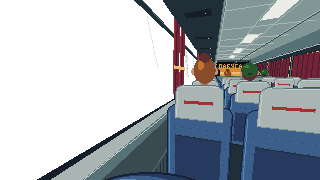
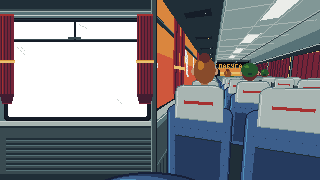
Пролог: боковое окно автобуса без дороги — поля, опушка, Кама, смазанные кусты у обочины
Окно смотрит вбок: в стекле небо, дальний берег с заводами, Кама, наш берег с полями и опушкой и кусты
с травой у самой обочины, смазанные скоростью; всё едет строго справа налево. Окно ровное — рама,
уплотнитель, форточка, шторки, подоконник и стенка с отопителем, без диагоналей. Столбы и асфальт убраны,
тени на спинках теперь от кустов. Качка только по вертикали, под сдвинутым кадром — тот же кадр.

diff --git a/src/game/cutscene/render.ts b/src/game/cutscene/render.ts
@@ -3,7 +3,7 @@
 
 import { MAP } from '../map.gen'
 import { BUS, BUS_IN, BUS_POV, DIR, H, PHONE, SHEETS, SPOTS, type Sheet } from './art'
-import { dither, lut, recolor, rgb } from './mood'
+import { dither, recolor, rgb } from './mood'
 import { glide, sample, swiping, travelled, walkFrame } from './timeline'
 import type { Actor, Mood, SetId, Shot } from './types'
 
@@ -22,8 +22,6 @@ interface Layer {
   sky?: boolean
   /** после слоя — туман такой плотности (только утром) */
   fog?: number
-  /** не картинка, а заливка цветом палитры от dy + H до низа кадра (низ окна под лентами пейзажа) */
-  fill?: number
   /** закатные пятна в салоне: их пересекают тени столбов за окном */
   sun?: boolean
 }
@@ -54,13 +52,15 @@ const town = (name: 'street' | 'oez'): Layer[] => [
 
 export const SETS: Record<Exclude<SetId, 'phone' | 'map' | 'black'> | 'pov', SetDef> = {
   road: { w: Infinity, back: outside() },
-  /** салон от первого лица: за телефоном в автобусе. Ближе всего за стеклом — столбы у обочины, быстрее трассы */
+  /** салон от первого лица: за телефоном в автобусе. Окно боковое: дальше — медленнее, кусты у обочины — быстрее всех */
   pov: {
     w: BUS_POV.w,
     back: [
-      { src: '', par: 0, fill: BUS_POV.ground, dy: BUS_POV.view },
-      ...outside(BUS_POV.view),
-      { src: BUS_POV.pass, par: BUS_POV.par, tile: true, drive: true, dy: BUS_POV.view },
+      { src: 'sky', par: 0, sky: true, dy: BUS_POV.view },
+      { src: 'road_far.png', par: 0.12, tile: true, drive: true, dy: BUS_POV.view },
+      { src: 'road_river.png', par: 0.3, tile: true, drive: true, dy: BUS_POV.view },
+      { src: BUS_POV.field, par: BUS_POV.fieldPar, tile: true, drive: true },
+      { src: BUS_POV.near, par: BUS_POV.nearPar, tile: true, drive: true },
       { src: BUS_POV.src, par: 1 },
       { src: BUS_POV.sun, par: 1, sun: true },
     ],
@@ -81,7 +81,7 @@ export function imagesOf(shot: Shot): string[] {
   if (set === 'map') out.push('/assets/map/elabuga.png')
   else if (set !== 'black') {
     const def = SETS[set]
-    for (const l of [...def.back, ...(def.front ?? [])]) if (l.fill === undefined) out.push(l.sky ? `${DIR}sky_${mood}.png` : DIR + l.src)
+    for (const l of [...def.back, ...(def.front ?? [])]) out.push(l.sky ? `${DIR}sky_${mood}.png` : DIR + l.src)
     if (set === 'bus') out.push(DIR + BUS_IN.sit.src)
   }
   if (shot.set === 'phone') out.push(DIR + PHONE.src)
@@ -176,7 +176,8 @@ export class Painter {
       const w = SETS[behind].w
       const want = behind === 'pov' ? w / 2 : sample(shot.cam, t, w / 2)
       const cam = Math.max(vw / 2, Math.min(w - vw / 2, want))
-      const sway = behind === 'pov' ? [Math.round(Math.sin(anim * 1.1)), bumpAt(anim)] : [0, 0]
+      // качка только вверх-вниз на точку; под сдвинутым кадром — тот же кадр без сдвига, пустого края не бывает
+      const sway = behind === 'pov' ? [0, bumpAt(anim)] : [0, 0]
       const world: Shot = { ...shot, set: behind === 'pov' ? 'bus' : behind, actors: shot.actors ?? [] }
       this.dim = behind !== 'pov'
       // сдвинутый кадр оголил бы край — под ним тот же кадр без сдвига
@@ -236,13 +237,8 @@ export class Painter {
     const layer = (l: Layer) => {
       if (l.lights && mood === 'day') return
       const dy = l.dy ?? 0
-      if (l.fill !== undefined) {
-        ctx.fillStyle = rgb(lut(mood, this.dim)[l.fill])
-        ctx.fillRect(0, H + dy, vw, -dy)
-        return
-      }
       if (l.sun) {
-        if (mood === 'dusk' || mood === 'day') this.sunlight(DIR + l.src, mood, run * BUS_POV.par, left)
+        if (mood === 'dusk' || mood === 'day') this.sunlight(DIR + l.src, mood, run, left)
         return
       }
       if (l.sky) {
@@ -270,24 +266,29 @@ export class Painter {
   }
 
   /**
-   * Закатные пятна на спинках: слой рисуется полосами по 3 строки, а тени столбов у обочины (те же, что за окном,
-   * лента pov_pass) вырезают из них косые просветы — тень пробегает по салону, когда столб проносится мимо окна.
+   * Закатные пятна на спинках: слой рисуется полосами по 3 строки, а тени кустов у обочины (те же, что за окном,
+   * лента pov_near) вырезают из них косые просветы — тень пробегает по салону, когда куст проносится мимо окна.
    */
   private sunlight(src: string, mood: Mood, run: number, left: number) {
     const im = this.img(src, mood)
     if (!im) return
     const { ctx, vw } = this
-    const off = left * BUS_POV.par + run
-    const shades: number[] = []
-    for (const p of POLES) for (let k = -1; k <= 1; k++) shades.push(p + k * 640 - off)
+    const off = (left + run) * BUS_POV.nearPar
+    const W = BUS_POV.nearW
+    // тень куста: [левый край, ширина] на ленте у обочины, ленту повторяем, чтобы тени шли без конца
+    const shades: [number, number][] = []
+    for (const [cx, w] of BUS_POV.bushes) for (let k = -1; k <= 1; k++) shades.push([cx - w + k * W - (off % W), w * 2])
     for (let y = 0; y < H; y += 3) {
-      // тень падает наискось и отстаёт от столба: чем ниже, тем правее
-      const cuts = shades.map((x) => Math.round(x * 0.9 + 150 + y * 0.55)).filter((x) => x > -12 && x < vw).sort((a, b) => a - b)
+      // тень падает наискось и отстаёт от куста: чем ниже, тем правее
+      const cuts = shades
+        .map(([x, w]) => [Math.round(x * 0.5 + 150 + y * 0.55), Math.round(w * 0.5)] as const)
+        .filter(([x, w]) => x + w > 0 && x < vw)
+        .sort((a, b) => a[0] - b[0])
       let x0 = 0
-      for (const c of [...cuts, vw + 20]) {
+      for (const [c, w] of [...cuts, [vw + 20, 0] as const]) {
         const x1 = Math.min(vw, c)
         if (x1 > x0) ctx.drawImage(im, x0 + left, y, x1 - x0, 3, x0, y, x1 - x0, 3)
-        x0 = Math.max(x0, c + 9)
+        x0 = Math.max(x0, c + w)
       }
     }
   }
@@ -410,9 +411,6 @@ const bumpAt = (t: number) => (Math.sin(t * 7.3) > 0.85 ? 1 : 0)
 
 /** Телефон поднимается к глазам в начале плана, секунды. */
 const PHONE_RISE = 0.45
-
-/** Столбы на ленте pov_pass.png (tools/art/cutscene_pov.py, build_pass): x в ленте 640 точек. */
-const POLES = [40, 250, 470]
 
 /** Стая: x, y, скорость, фаза взмаха. */
 const FLOCK = [

diff --git a/src/game/cutscene/people.gen.ts b/src/game/cutscene/people.gen.ts
@@ -3,4 +3,4 @@
 // (ставим её на линию земли), cycle — сколько точек тело проходит за 8 кадров ходьбы (ноги не скользят).
 // Прямоугольники — [x0, y0, x1, y1] включительно: окна салона (стёкла прозрачные), экран телефона.
 
-export const PEOPLE = {"walk": {"src": "/assets/cutscene/newbie_walk.png", "w": 32, "h": 48, "frames": 11, "walk": [0, 1, 2, 3, 4, 5, 6, 7], "stand": 8, "ay": 46, "cycle": 32, "phoneEar": 9, "phoneLook": 10, "ax": 16}, "case": {"src": "/assets/cutscene/newbie_case.png", "w": 48, "h": 48, "frames": 9, "walk": [0, 1, 2, 3, 4, 5, 6, 7], "stand": 8, "ay": 46, "cycle": 32, "ax": 32}, "box": {"src": "/assets/cutscene/newbie_box.png", "w": 32, "h": 48, "frames": 9, "walk": [0, 1, 2, 3, 4, 5, 6, 7], "stand": 8, "ay": 46, "cycle": 32, "ax": 14}, "sit": {"src": "/assets/cutscene/newbie_sit.png", "w": 48, "h": 56, "frames": 4, "phone": 0, "scroll": 1, "window": 2, "doze": 3, "at": [161, 117]}, "busIn": {"src": "/assets/cutscene/bus_in.png", "fg": "/assets/cutscene/bus_fg.png", "w": 320, "h": 180, "windows": [[6, 60, 98, 131], [110, 60, 206, 131], [218, 60, 314, 131]], "floor": 172}, "busPov": {"src": "/assets/cutscene/bus_pov.png", "sun": "/assets/cutscene/bus_pov_sun.png", "pass": "/assets/cutscene/pov_pass.png", "w": 320, "h": 180, "view": -40, "passPar": 2.2, "ground": 7}, "phone": {"src": "/assets/cutscene/phone.png", "w": 160, "h": 180, "frames": 2, "rest": 0, "swipe": 1, "screen": [38, 14, 121, 157]}, "timur": {"src": "/assets/cutscene/timur.png", "w": 32, "h": 48, "frames": 2, "idle": 0, "sip": 1, "ax": 15, "ay": 46, "faces": "left"}} as const
+export const PEOPLE = {"walk": {"src": "/assets/cutscene/newbie_walk.png", "w": 32, "h": 48, "frames": 11, "walk": [0, 1, 2, 3, 4, 5, 6, 7], "stand": 8, "ay": 46, "cycle": 32, "phoneEar": 9, "phoneLook": 10, "ax": 16}, "case": {"src": "/assets/cutscene/newbie_case.png", "w": 48, "h": 48, "frames": 9, "walk": [0, 1, 2, 3, 4, 5, 6, 7], "stand": 8, "ay": 46, "cycle": 32, "ax": 32}, "box": {"src": "/assets/cutscene/newbie_box.png", "w": 32, "h": 48, "frames": 9, "walk": [0, 1, 2, 3, 4, 5, 6, 7], "stand": 8, "ay": 46, "cycle": 32, "ax": 14}, "sit": {"src": "/assets/cutscene/newbie_sit.png", "w": 48, "h": 56, "frames": 4, "phone": 0, "scroll": 1, "window": 2, "doze": 3, "at": [161, 117]}, "busIn": {"src": "/assets/cutscene/bus_in.png", "fg": "/assets/cutscene/bus_fg.png", "w": 320, "h": 180, "windows": [[6, 60, 98, 131], [110, 60, 206, 131], [218, 60, 314, 131]], "floor": 172}, "busPov": {"src": "/assets/cutscene/bus_pov.png", "sun": "/assets/cutscene/bus_pov_sun.png", "field": "/assets/cutscene/pov_field.png", "near": "/assets/cutscene/pov_near.png", "w": 320, "h": 180, "view": -48, "fieldPar": 0.8, "nearPar": 3.2, "bushes": [[90, 30], [420, 18], [700, 36]], "nearW": 960}, "phone": {"src": "/assets/cutscene/phone.png", "w": 160, "h": 180, "frames": 2, "rest": 0, "swipe": 1, "screen": [38, 14, 121, 157]}, "timur": {"src": "/assets/cutscene/timur.png", "w": 32, "h": 48, "frames": 2, "idle": 0, "sip": 1, "ax": 15, "ay": 46, "faces": "left"}} as const

diff --git a/src/game/cutscene/art.ts b/src/game/cutscene/art.ts
@@ -71,18 +71,22 @@ export const BUS_IN = {
 }
 
 /**
- * Салон от первого лица (телефон в руках в автобусе): сидим у левого окна, за стеклом та же трасса, что снаружи.
- * view — сдвиг пейзажа вверх (горизонт на уровне глаз), pass — столбы у обочины, едут быстрее трассы (par),
- * sun — закатные пятна из окон на спинках: их режут тени столбов; ground — чем залить низ окна под пейзажем.
+ * Салон от первого лица (телефон в руках в автобусе): сидим у левого окна, окно смотрит вбок — дороги в нём нет.
+ * В стекле: небо, дальний берег с заводами и Кама (ленты трассы, сдвинутые на view вверх), наш берег с полями и
+ * опушкой (field) и кусты с травой у самой обочины, смазанные скоростью (near). sun — закатные пятна на спинках:
+ * их пересекают тени тех же кустов.
  */
 export const BUS_POV = {
   src: file(P.busPov.src),
   sun: file(P.busPov.sun),
-  pass: file(P.busPov.pass),
-  par: P.busPov.passPar,
+  field: file(P.busPov.field),
+  near: file(P.busPov.near),
+  fieldPar: P.busPov.fieldPar,
+  nearPar: P.busPov.nearPar,
+  bushes: P.busPov.bushes,
+  nearW: P.busPov.nearW,
   w: P.busPov.w,
   view: P.busPov.view,
-  ground: P.busPov.ground,
 }
 
 export const PHONE = {

diff --git a/tools/art/cutscene_pov.py b/tools/art/cutscene_pov.py
@@ -15,9 +15,13 @@ from PIL import Image, ImageDraw
 from room3d import FONT, T, Tex, darker, lighter
 
 BW, BH = 320, 180
-VIEW = -40            # сдвиг пейзажа за окном вверх: горизонт — на уровне глаз
-PASS_PAR = 2.2        # ближние столбы у обочины едут быстрее трассы
-GROUND_FILL = 7       # чем залить низ окна под лентами пейзажа (трава)
+VIEW = -48            # сдвиг дальних лент (небо, берег, Кама) вверх: горизонт — на уровне глаз
+# боковое окно: смотрим перпендикулярно ходу, дороги не видно. Ленты пейзажа и их параллакс (доля скорости автобуса)
+FAR_PAR, RIVER_PAR = 0.12, 0.3   # дальний берег с заводами ОЭЗ и Кама
+FIELD_PAR = 0.8       # поля и опушка на нашем берегу
+NEAR_PAR = 3.2        # кусты и трава у самой обочины — проносятся смазанно
+NEAR_BUSHES = [(90, 30), (420, 18), (700, 36)]   # центр и полуширина кустов на ленте 960
+WIN = (8, 22, 146, 116)                       # стекло ближнего окна в кадре, x0, y0, x1, y1 включительно
 rng = np.random.default_rng(1610)    # свой генератор: остальные листы не меняются
 
 SKIN, SKIN_S, SKIN_D, SKIN_L = 16, 15, 14, 17
@@ -194,7 +198,8 @@ def build_bus_pov():
     s.line((WALL_L + 0.01, -0.84, -1), (WALL_L + 0.01, -0.84, FRONT), 41)
     for z0, z1 in PANES:
         s.quad(wall_l(z0 - 0.04, z1 + 0.04, SILL - 0.03, WTOP + 0.03), 38)           # уплотнитель
-        s.quad(wall_l(z0, z1, SILL, WTOP), T)
+        s.quad(wall_l(z0, z1, SILL, WTOP), 29)                                       # дальние стёкла вскользь — закатный отблеск
+        s.quad(wall_l(z0, z1, SILL, (SILL + WTOP) / 2), 28)
         s.quad(wall_l(z0, z1, WTOP - 0.17, WTOP - 0.14), 39)                          # перекладина форточки
         s.line((WALL_L, WTOP - 0.14, z0), (WALL_L, WTOP - 0.14, z1), 41)
         # блики на стекле — косые полоски, не едут вместе с пейзажем
@@ -252,6 +257,8 @@ def build_bus_pov():
     # поручень над проходом справа
     s.line((1.0, 0.68, -1), (1.0, 0.68, FRONT), 43)
     s.line((1.0, 0.665, -1), (1.0, 0.665, FRONT), 40)
+    window_panel(t)
+    s.kind[:, :WIN[2] + 11] = 0
     # --- свои колени в джинсах внизу
     xs, ys = t.grid()
     knee = ((xs - 150) / 70) ** 2 + ((ys - 204) / 32) ** 2 <= 1
@@ -432,15 +439,116 @@ def rounded(t, x0, y0, x1, y1, r, c):
             t.ellipse(cx, cy, r + 0.3, r + 0.3, c)
 
 
-def build_pass():
-    """Ближний план за окном: столбы у самой обочины проносятся быстро (параллакс 2.2). Лента 640×180."""
+def window_panel(t):
+    """Ближнее окно слева — как его видит сидящий рядом: прямоугольник стекла в резиновом уплотнителе, форточка,
+    шторка у края, внизу подоконник и стенка с решёткой отопителя, сверху кромка багажной полки. Пейзаж — только
+    в стекле (прозрачные пиксели), ни одной диагонали: автобус едет прямо, окно смотрит вбок."""
+    x0, y0, x1, y1 = WIN
+    R = x1 + 10                                     # правый край панели — простенок
+    t.rect(0, 0, R, BH - 1, 41)
+    # кромка полки и стенка над окном
+    t.rect(0, 0, R, 8, 39)
+    t.rect(0, 9, R, 11, 40)
+    t.rect(0, 11, R, 11, 43)
+    t.rect(0, 15, R, 15, 44)                        # карниз шторки
+    # уплотнитель и стекло со скруглёнными углами
+    rounded(t, x0 - 4, y0 - 4, x1 + 4, y1 + 4, 5, 37)
+    rounded(t, x0 - 3, y0 - 3, x1 + 3, y1 + 3, 4, 38)
+    t.rect(x0 - 1, y0 - 3, x1 - 1, y0 - 3, 39)
+    rounded(t, x0, y0, x1, y1, 3, T)
+    # форточка: верхняя створка с перекладиной и стыком
+    t.rect(x0, y0 + 17, x1, y0 + 19, 38)
+    t.rect(x0, y0 + 17, x1, y0 + 17, 40)
+    t.rect(x0 + 66, y0, x0 + 67, y0 + 17, 38)
+    t.rect(x0 + 60, y0 + 15, x0 + 72, y0 + 16, 40)    # защёлка
+    # блики на стекле: короткие косые полосы в углах — стоят на месте, пока пейзаж едет
+    for bx, by, n in ((x0 + 8, y0 + 24, 9), (x0 + 12, y0 + 24, 5), (x1 - 30, y1 - 18, 7)):
+        for j in range(n):
+            t.px(bx + j, by + j, 44 if j % 3 else T)
+    for j in range(10):
+        t.px(x0 + 70 + j, y0 + 2 + j // 2, 44 if j % 3 else T)
+    # подоконник и стенка под окном
+    t.rect(0, y1 + 5, R, y1 + 9, 43)
+    t.rect(0, y1 + 5, R, y1 + 5, 44)
+    t.rect(0, y1 + 10, R, y1 + 11, 39)
+    t.rect(0, y1 + 12, R, BH - 1, 40)
+    for yy in range(y1 + 22, BH - 8, 5):              # решётка отопителя
+        t.rect(6, yy, R - 6, yy + 1, 39)
+        t.rect(6, yy + 2, R - 6, yy + 2, 41)
+    t.rect(0, BH - 6, R, BH - 1, 39)
+    # простенок справа: металлическая стойка
+    t.rect(x1 + 5, 0, R, BH - 1, 40)
+    t.rect(x1 + 5, 0, x1 + 5, BH - 1, 42)
+    t.rect(R, 0, R, BH - 1, 38)
+    # шторки, собранные у краёв окна: складки, подхват, кисточка внизу
+    for cx, w in ((0, 13), (x1 - 9, 15)):
+        top, bot = 14, y1 - 22
+        t.rect(cx, top, cx + w, bot, CURT)
+        for k in range(cx + 1, cx + w, 3):
+            t.rect(k, top, k, bot, CURT_S)
+        t.rect(cx + 2, top, cx + 2, bot, CURT_L)
+        t.rect(cx, top, cx + w, top + 1, CURT_L)
+        t.rect(cx - 1, 60, cx + w + 1, 62, 23)       # подхват
+        t.rect(cx - 1, 60, cx + w + 1, 60, 22)
+        t.poly([(cx, bot), (cx + w, bot), (cx + w - 2, bot + 9), (cx + 2, bot + 9)], CURT_S)
+        t.rect(cx + 2, bot + 9, cx + w - 2, bot + 9, CURT)
+
+
+def build_field():
+    """Наш берег за обочиной: поле в стерне, перелески и опушка; верх рощ заслоняет Каму. Лента 640×180, y — в кадре."""
     t = Tex(640, BH)
-    for x0 in (40, 250, 470):
-        t.rect(x0, 0, x0 + 4, 156, 39)
-        t.rect(x0, 0, x0, 156, 41)
-        t.rect(x0 + 4, 0, x0 + 4, 156, 38)
-        t.rect(x0 - 8, 60, x0 + 12, 62, 38)                          # перекладина
-        t.rect(x0 - 8, 60, x0 + 12, 60, 40)
+    xs, ys = t.grid()
+    top = 89 + 2 * np.sin(xs / 37) + np.sin(xs / 11)
+    field = ys >= top
+    t.a[field] = 9
+    t.a[field & (ys >= top + 6)] = 8
+    t.a[field & (rng.random(t.a.shape) < 0.05)] = 21          # стерня
+    for k in range(0, 640, 9):                                  # борозды
+        t.a[field & (np.abs(ys - (top + 3 + (k % 27) / 3)) < 0.5) & (xs > k) & (xs < k + 6)] = 8
+    # перелески и опушка: ряд крон-шапок, освещены сверху слева, редкие жёлтые и рыжие пятна осени
+    for cx, w in ((40, 46), (150, 20), (250, 70), (390, 28), (470, 56), (590, 32)):
+        for x in range(int(cx - w), int(cx + w), 5):
+            r = rng.uniform(3.5, 6.5) * (1 - 0.5 * abs(x - cx) / w)
+            cy = 89 - r * 1.2 - rng.uniform(0, 3) * (1 - abs(x - cx) / w)
+            crown = ((xs - x) / r) ** 2 + ((ys - cy) / r) ** 2 <= 1
+            t.a[crown | ((np.abs(xs - x) < r) & (ys > cy) & (ys < top + 1))] = 6
+            lit = ((xs - x + r * 0.35) / (r * 0.7)) ** 2 + ((ys - cy + r * 0.35) / (r * 0.6)) ** 2 <= 1
+            t.a[lit] = 7
+            t.a[lit & (rng.random(t.a.shape) < 0.12)] = 22
+            t.a[crown & (rng.random(t.a.shape) < 0.04)] = 28
+    return t
+
+
+def build_near():
+    """У самой обочины: трава снизу и кусты, которые проносятся быстро — смазаны по ходу движения длинными
+    горизонтальными мазками. Лента 960×180, y — в кадре (низ окна — 116)."""
+    t = Tex(960, BH)
+    xs, ys = t.grid()
+    # трава обочины тянется снизу, местами выше
+    grass = ys >= 109 + 3 * np.sin(xs / 41) + 1.5 * np.sin(xs / 9)
+    t.a[grass] = 7
+    t.a[grass & (ys > 114)] = 6
+    for y in range(100, 122):
+        for x in range(0, 960, 1):
+            if rng.random() < 0.03 and grass[min(y + 2, BH - 1), x]:
+                n = int(rng.integers(12, 30))
+                t.rect(x, y, x + n, y, int(rng.choice([8, 9, 21])))
+    for cx, w in NEAR_BUSHES:
+        h = 10 + w // 3
+        for y in range(116 - h, 117):
+            u = (116 - y) / h
+            half = w * math.sqrt(max(0.0, 1 - u * u)) * (1.4 - 0.4 * u)
+            x0 = cx - half
+            x = x0
+            while x < cx + half:
+                n = int(rng.integers(14, 34))
+                c = int(rng.choice([6, 6, 7, 7, 8, 21, 22] if u > 0.35 else [6, 6, 7, 38]))
+                t.rect(x, y, min(cx + half, x + n), y, c)
+                x += n + (0 if rng.random() < 0.7 else int(rng.integers(1, 4)))
+            # смазанный хвост против хода (вправо): редкие мазки
+            for _ in range(2):
+                tx = cx + half + rng.integers(0, 20)
+                t.rect(tx, y, tx + rng.integers(3, 10), y, 6)
     return t
 
 
@@ -555,7 +663,7 @@ def outline_mask(t, c):
 # ---------------------------------------------------------------------------------------------------
 # превью: салон вечером со всеми слоями и телефоном — как в кадре (тонировка — та же, что в mood.ts)
 # ---------------------------------------------------------------------------------------------------
-def dusk_preview(out_path, assets, pov, sun, pas, phone, view, shift=0):
+def dusk_preview(out_path, assets, pov, sun, field, near, phone, view, shift=0):
     from apollo import RGB
     pal = np.array(RGB, float) / 255
 
@@ -579,12 +687,14 @@ def dusk_preview(out_path, assets, pov, sun, pas, phone, view, shift=0):
 
     canvas = Image.new('RGBA', (BW, BH), (9, 10, 20, 255))
     canvas.alpha_composite(Image.open(f'{assets}/sky_dusk.png').convert('RGBA'), (0, view))
-    canvas.paste(tuple(RGB[lut[7]]) + (255,), (0, BH + view, BW, BH))
-    for name, par, img in (('road_far', 0.18, None), ('road_river', 0.42, None), ('road_near', 1, None), (None, 2.2, pas)):
+    for name, par, img, dy in (('road_far', FAR_PAR, None, view), ('road_river', RIVER_PAR, None, view),
+                               (None, FIELD_PAR, field, 0), (None, NEAR_PAR, near, 0)):
         im = tone(Image.open(f'{assets}/{name}.png')) if name else tone(img.image())
+        layer = Image.new('RGBA', (BW, BH))
         off = int(shift * par) % im.width
         for x in range(-off, BW, im.width):
-            canvas.alpha_composite(im, (x, view) if x >= 0 else (0, view), (0, 0) if x >= 0 else (-x, 0, im.width, BH))
+            layer.alpha_composite(im, (max(0, x), max(0, dy)), (max(0, -x), max(0, -dy), im.width, BH))
+        canvas.alpha_composite(layer)
     canvas.alpha_composite(tone(pov.image()))
     canvas.alpha_composite(tone(sun.image()))
     if phone is not None:

diff --git a/tools/art/cutscene_people.py b/tools/art/cutscene_people.py
@@ -6,7 +6,7 @@
 ровно с шагом, поэтому при движении тела на CYCLE/8 точек за кадр ноги не скользят.
 
 Запуск: ~/Arena-materials/.venv/bin/python tools/art/cutscene_people.py
-Пишет public/assets/cutscene/{newbie_walk,newbie_case,newbie_box,newbie_sit,bus_in,bus_fg,bus_pov,bus_pov_sun,pov_pass,phone,timur}.png,
+Пишет public/assets/cutscene/{newbie_walk,newbie_case,newbie_box,newbie_sit,bus_in,bus_fg,bus_pov,bus_pov_sun,pov_field,pov_near,phone,timur}.png,
 src/game/cutscene/people.gen.ts и превью tools/art/out/cs_*.
 """
 import json
@@ -949,7 +949,8 @@ def main():
     fg = build_bus_fg()
     phone = [pov_art.build_phone(0), pov_art.build_phone(1)]
     pov, sun = pov_art.build_bus_pov()
-    passing = pov_art.build_pass()
+    field = pov_art.build_field()
+    near = pov_art.build_near()
     tim = [timur(0), timur(1)]
     save(sheet(walk), 'newbie_walk.png')
     save(sheet(case), 'newbie_case.png')
@@ -960,8 +961,9 @@ def main():
     save(sheet(phone), 'phone.png')
     save(pov, 'bus_pov.png')
     save(sun, 'bus_pov_sun.png')
-    save(passing, 'pov_pass.png')
-    pov_art.dusk_preview(os.path.join(PREV, 'cs_bus_pov_x4.png'), OUT, pov, sun, passing, phone[0], pov_art.VIEW)
+    save(field, 'pov_field.png')
+    save(near, 'pov_near.png')
+    pov_art.dusk_preview(os.path.join(PREV, 'cs_bus_pov_x4.png'), OUT, pov, sun, field, near, phone[0], pov_art.VIEW)
     save(sheet(tim), 'timur.png')
     preview_strip(walk, 'cs_people_walk_x4.png')
     preview_strip(case, 'cs_people_case_x4.png')
@@ -986,8 +988,9 @@ def main():
         'busIn': {'src': '/assets/cutscene/bus_in.png', 'fg': '/assets/cutscene/bus_fg.png', 'w': BW, 'h': BH,
                   'windows': [[x0, WIN_Y0 + 2, x1, WIN_Y1 - 2] for x0, x1 in WINDOWS], 'floor': FLOOR},
         'busPov': {'src': '/assets/cutscene/bus_pov.png', 'sun': '/assets/cutscene/bus_pov_sun.png',
-                   'pass': '/assets/cutscene/pov_pass.png', 'w': BW, 'h': BH, 'view': pov_art.VIEW,
-                   'passPar': pov_art.PASS_PAR, 'ground': pov_art.GROUND_FILL},
+                   'field': '/assets/cutscene/pov_field.png', 'near': '/assets/cutscene/pov_near.png',
+                   'w': BW, 'h': BH, 'view': pov_art.VIEW, 'fieldPar': pov_art.FIELD_PAR, 'nearPar': pov_art.NEAR_PAR,
+                   'bushes': pov_art.NEAR_BUSHES, 'nearW': 960},
         'phone': {'src': '/assets/cutscene/phone.png', 'w': PW, 'h': PH, 'frames': 2, 'rest': 0, 'swipe': 1,
                   'screen': list(SCREEN)},
         'timur': {'src': '/assets/cutscene/timur.png', 'w': FW, 'h': FH, 'frames': 2, 'idle': 0, 'sip': 1,
